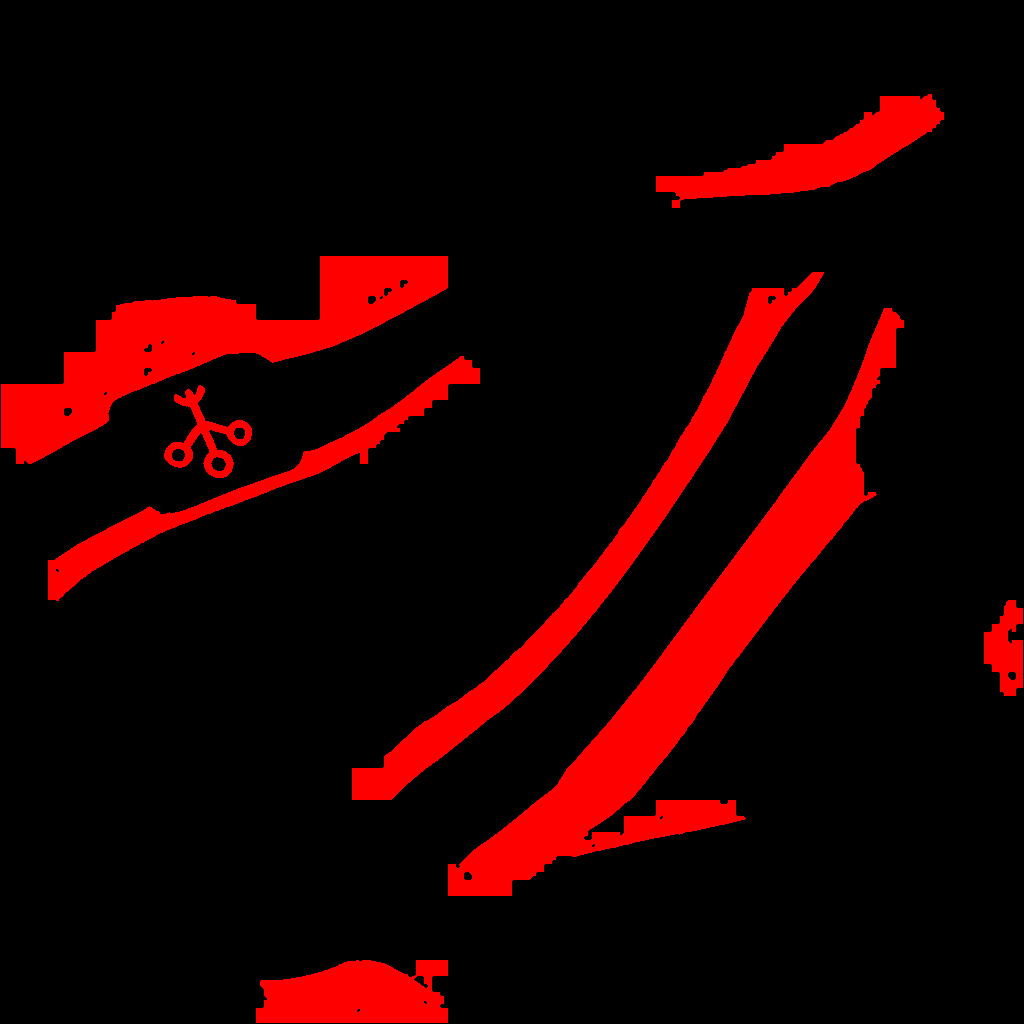
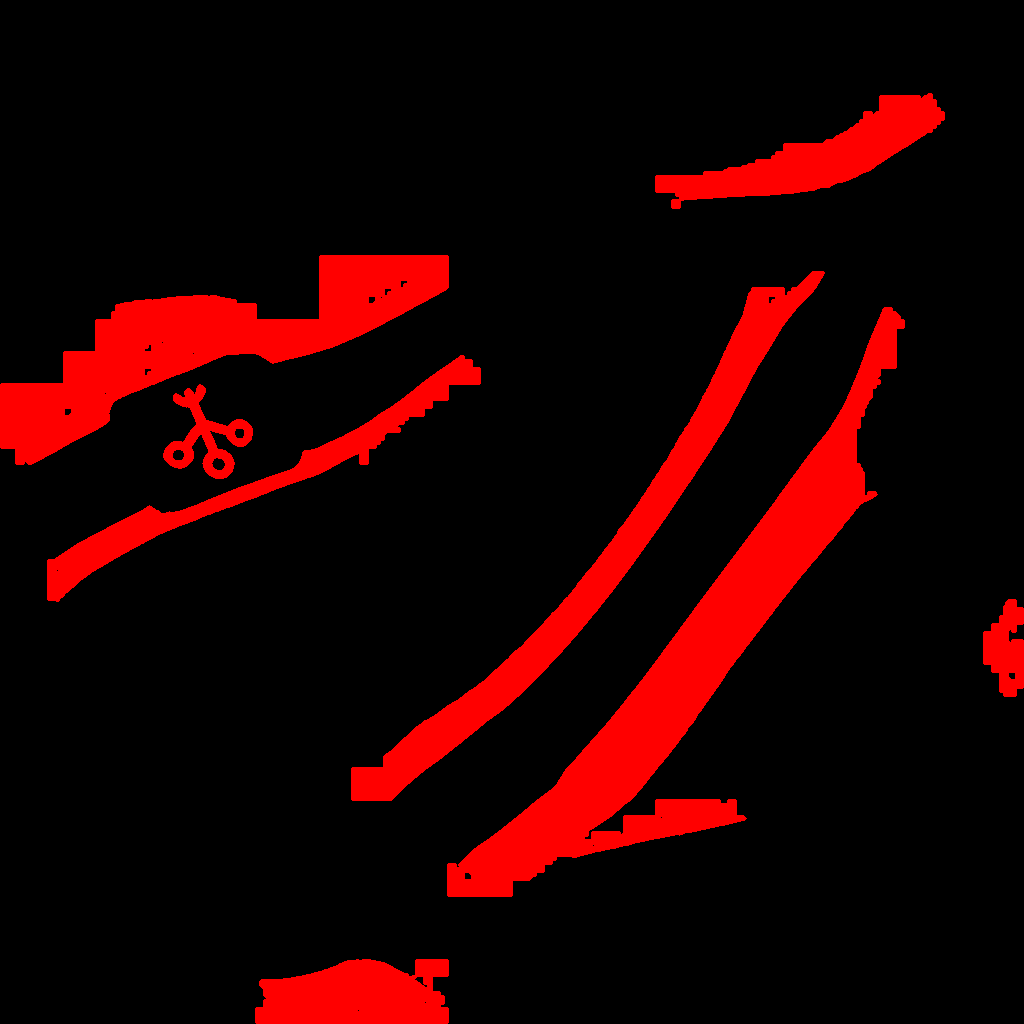
units-wire: neon pass - fringe-fitted mask, matte saturated neon emission (glow 1.6, albedo 0.25), neon never takes goo specular

diff --git a/tools/units/build_rodin_units.py b/tools/units/build_rodin_units.py
@@ -26,10 +26,11 @@ def neon_mask(diff2k, vmin=0.78):
     m = (s < 0.16) & (v > vmin)
     m = ndimage.binary_opening(m, iterations=1)
     m = ndimage.binary_closing(m, iterations=2)
+    m = ndimage.binary_dilation(m, iterations=2)       # the anti-aliased fringe of the lit line (about 1 px at 1024), geometry-following
     lab, n = ndimage.label(m)
     if n:
         sizes = ndimage.sum(m, lab, range(1, n + 1))
-        keep = np.isin(lab, 1 + np.nonzero(sizes >= 600)[0])
+        keep = np.isin(lab, 1 + np.nonzero(sizes >= 500)[0])
         m = keep
     return m
 
